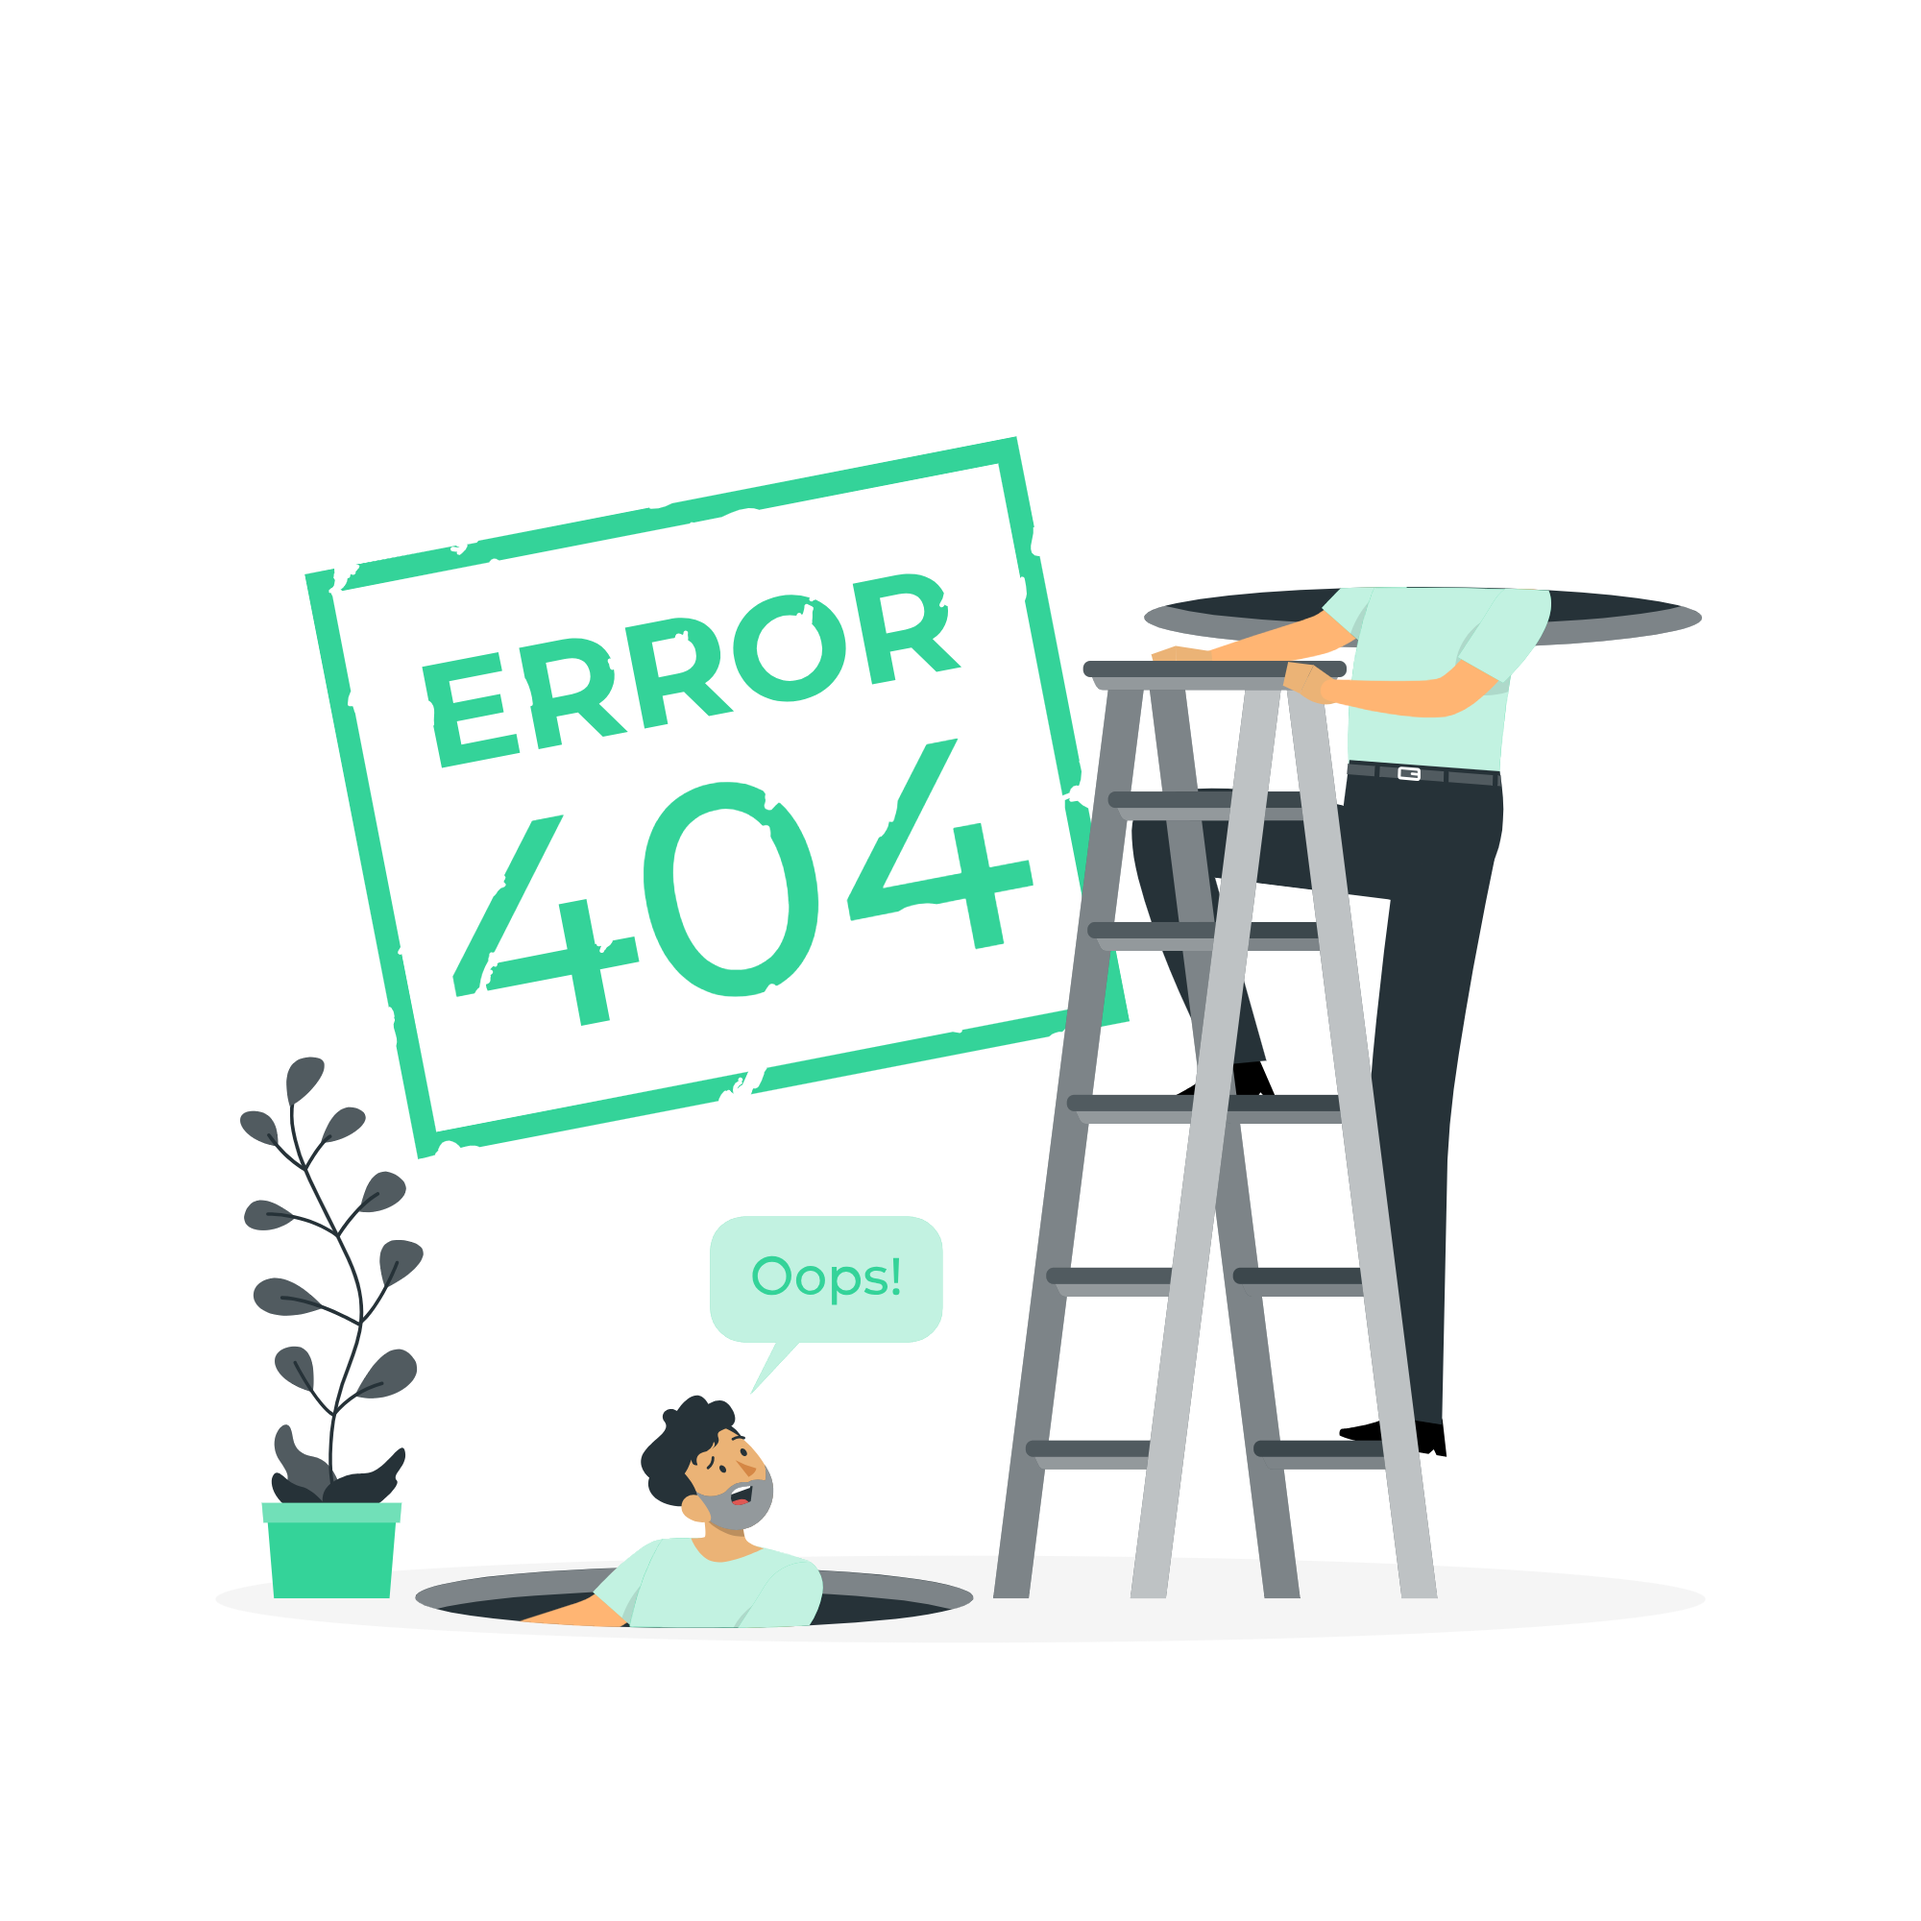
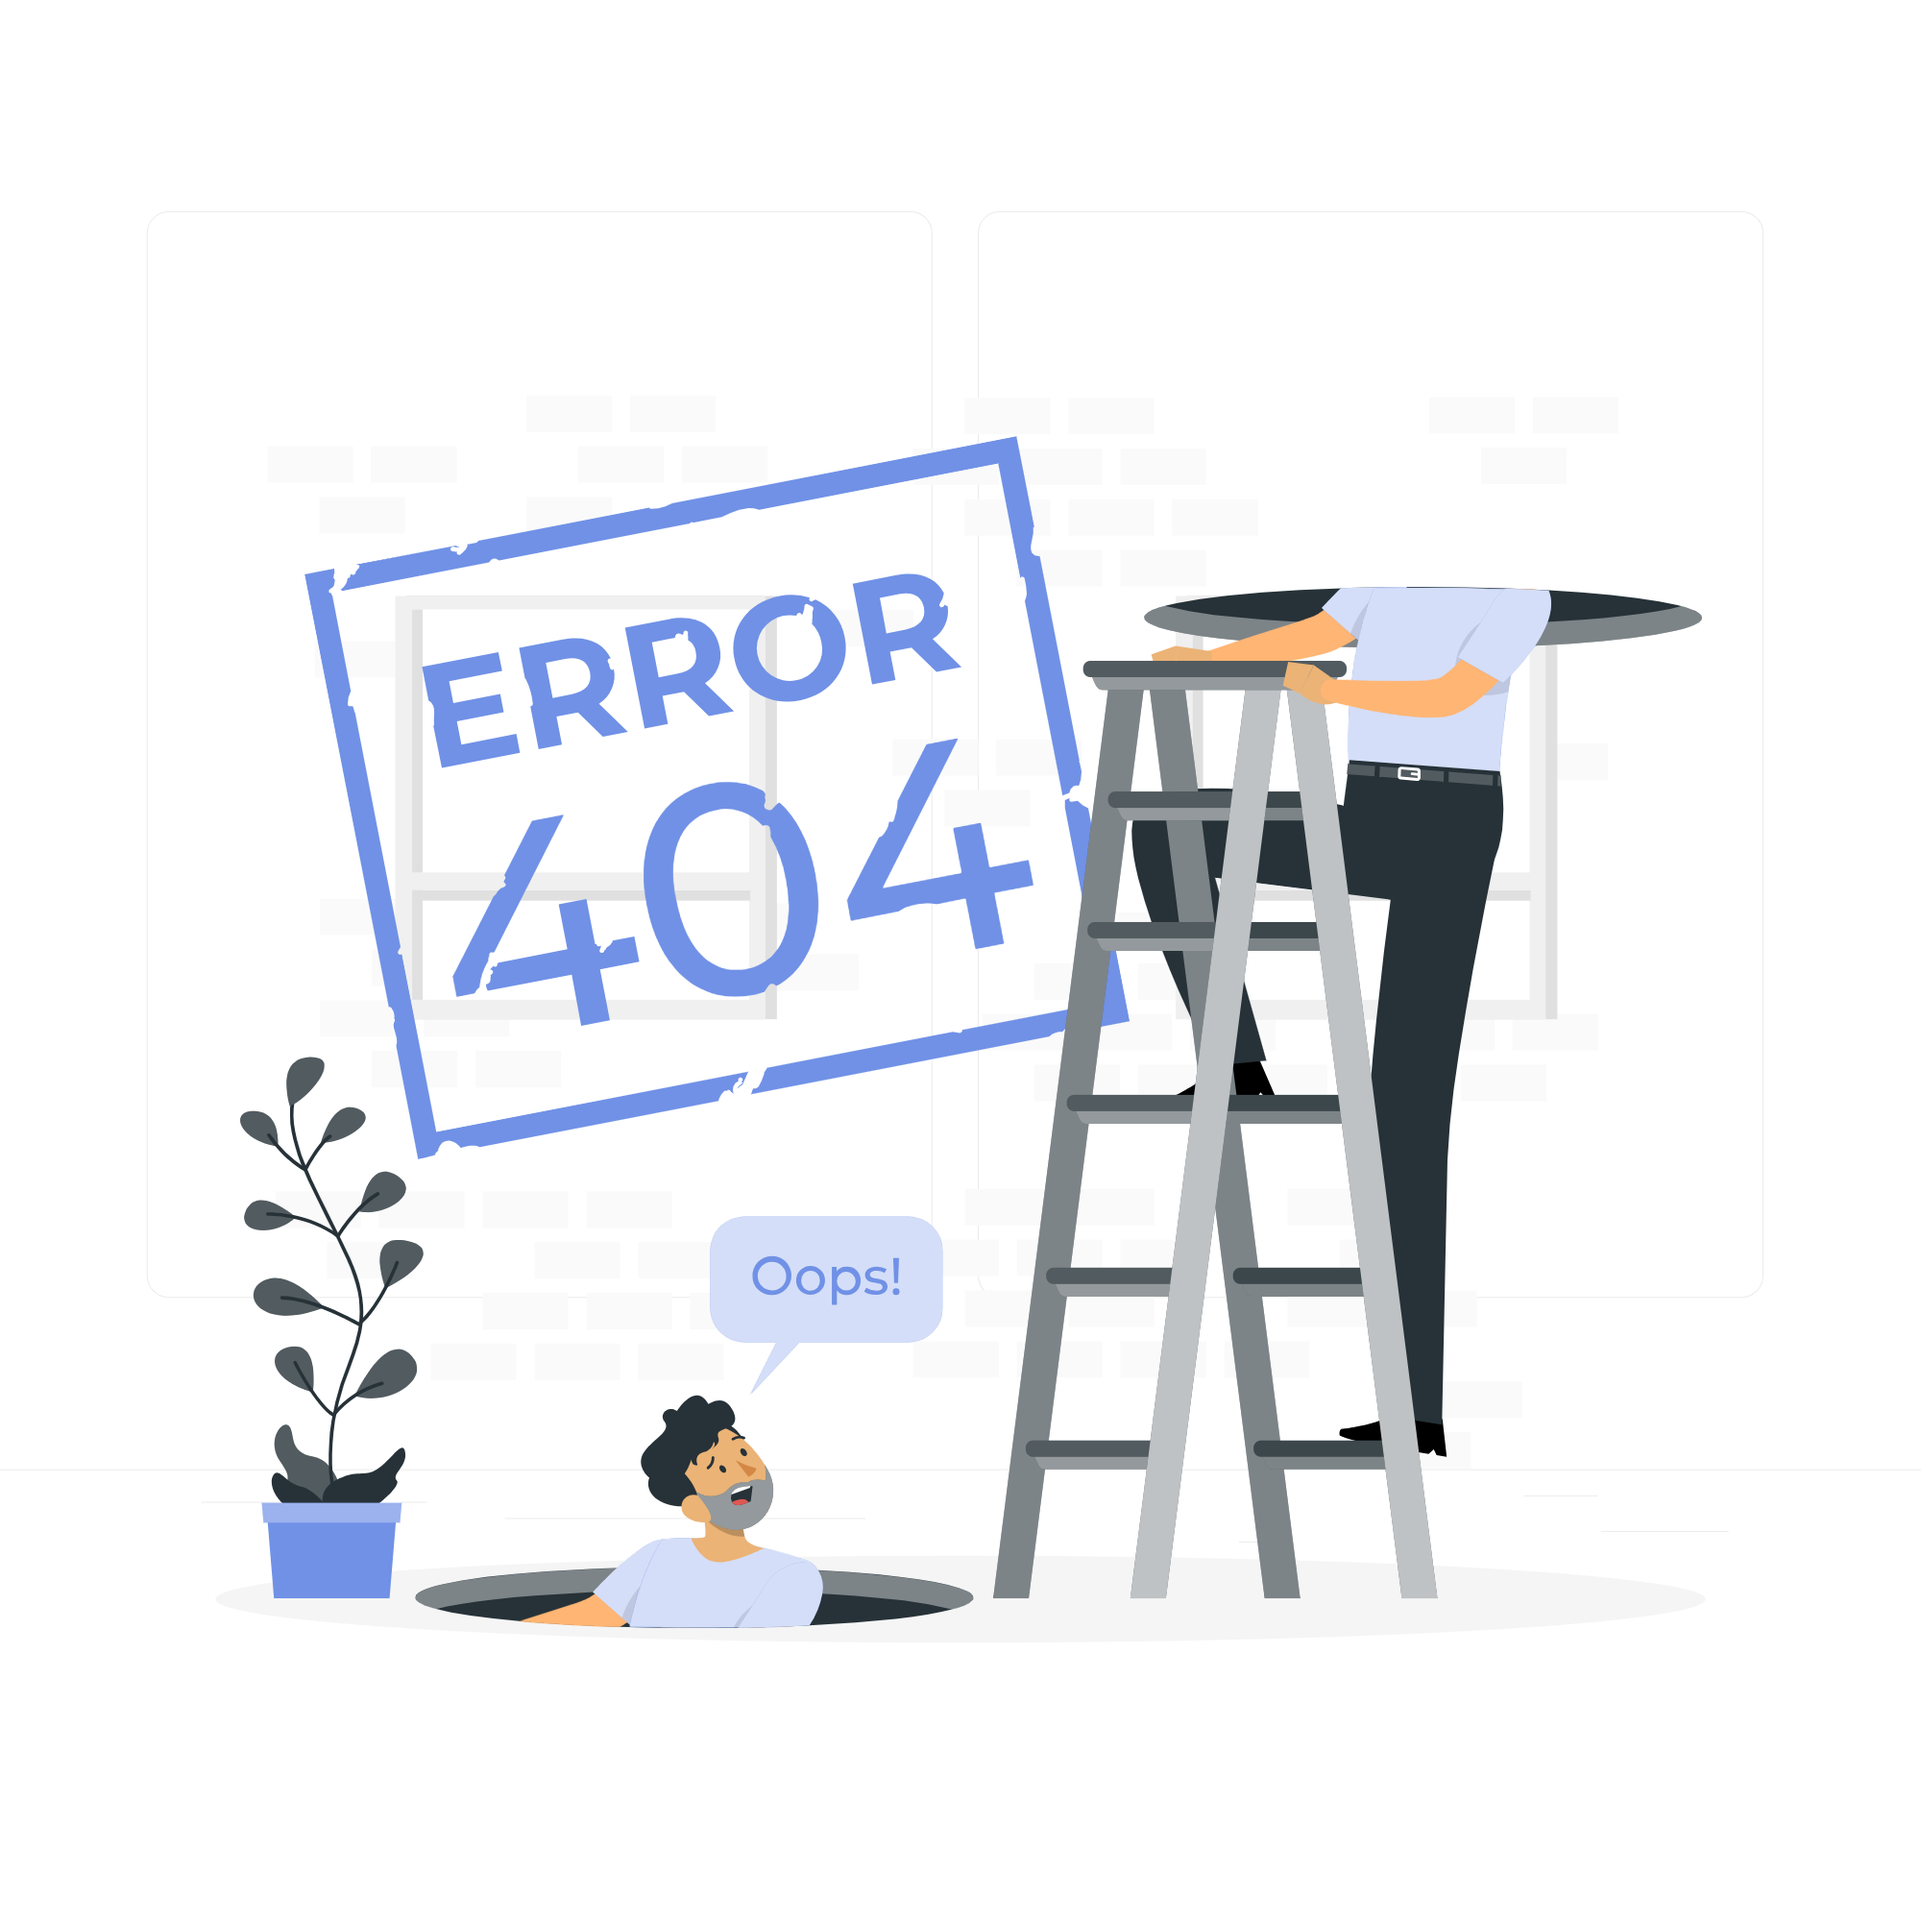
feat: added 404 page

diff --git a/frontend/src/utils/PageNotFound.tsx b/frontend/src/utils/PageNotFound.tsx
@@ -6,12 +6,12 @@ import { IoCaretBack } from "react-icons/io5";
 const PageNotFound = () => {
     const navigate = useNavigate()
     return (
-        <section className="w-full h-screen fixed top-0 left-0 flex flex-col justify-center items-center bg-gray-950 overflow-hidden z-[99999]">
+        <section className="w-full h-screen fixed top-0 left-0 flex flex-col justify-center items-center bg-color1 overflow-hidden z-[99999]">
             <div className="md:w-[600px] w-[90%] -mt-20 md:-mt-30 lg:-mt-10">
                 <img src={Error404Img} className="w-full h-full object-contain" alt="Page Not Found Image" />
             </div>
 
-            <Button type="button" className="bg-emerald-500 text-gray-950 px-6 py-3 rounded-md capitalize hover:bg-sky-500 flex items-center gap-1" onClick={() => navigate(-1)}>
+            <Button type="button" className="bg-color3 text-white px-6 py-3 rounded-md capitalize hover:bg-color4 flex items-center gap-1" onClick={() => navigate(-1)}>
                 <IoCaretBack className="text-xl" />
                 Go back
             </Button>

diff --git a/frontend/src/utils/Preloader.tsx b/frontend/src/utils/Preloader.tsx
@@ -2,8 +2,8 @@ import { TbLoaderQuarter } from "react-icons/tb";
 
 const Preloader = () => {
     return (
-        <section className='w-full h-screen fixed top-0 left-0 flex justify-center items-center bg-gray-950 overflow-hidden z-[99999]'>
-            <h2 className="text-gray-200 font-barlow text-lg md:text-xl flex items-center gap-1">
+        <section className='w-full h-screen fixed top-0 left-0 flex justify-center items-center bg-color1 overflow-hidden z-[99999]'>
+            <h2 className="text-color5 font-barlow text-lg md:text-xl flex items-center gap-1">
                 <TbLoaderQuarter className="animate-spin text-4xl mr-3" />
                 Loading...
             </h2>

diff --git a/frontend/tailwind.config.js b/frontend/tailwind.config.js
@@ -61,6 +61,11 @@ const config = {
         flowdark: "#0f111a",
         flowred: "#ff0420",
         flowdarklight: "1e1e1e",
+        color1: "#ede8f5",
+        color2: "#adbbda",
+        color3: "#8697c4",
+        color4: "#7091e6",
+        color5: "#3d52a0",
       },
       borderRadius: {
         lg: `var(--radius)`,

diff --git a/frontend/src/App.tsx b/frontend/src/App.tsx
@@ -21,7 +21,7 @@ configWeb3Modal();
 
 const App = () => {
   return (
-    <main className="w-full min-h-screen bg-gray-950" id="heroPattern">
+    <main className="w-full min-h-screen bg-color1" id="heroPattern">
       <ScrollToTop />
       <Suspense fallback={<Preloader />}>
         <Routes>
